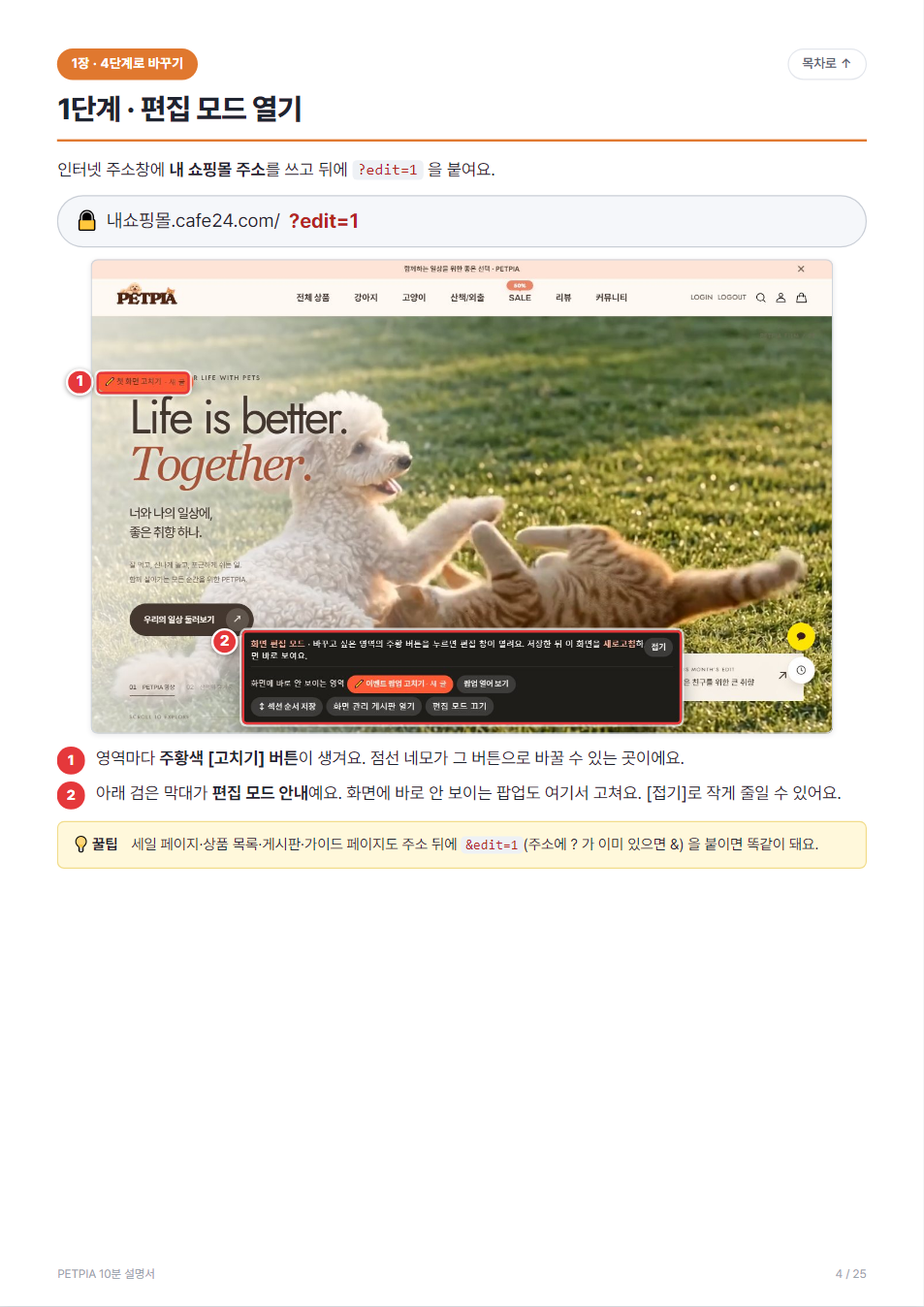
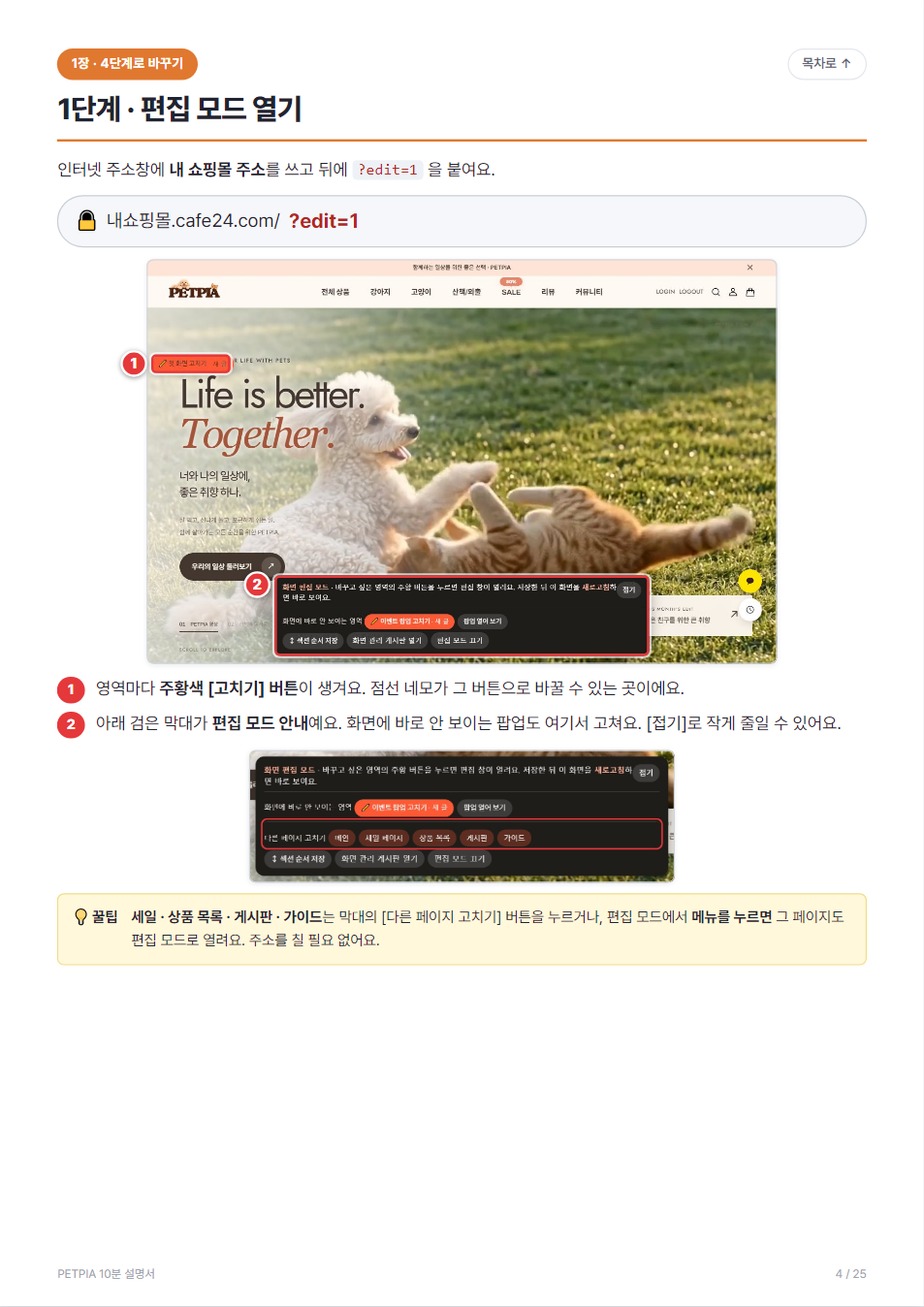
Edit mode follows site links; page shortcuts in the edit bar
- In edit mode, clicking menu/links opens the next page in edit mode too
- Edit bar gets [다른 페이지 고치기] shortcuts (main, sale, list, board, guide)
- [편집 모드 끄기] keeps the page's own query (e.g. sale category)
- Manual: sub/sale/board/guide pages explain the shortcuts

diff --git a/manual-cms/index.html b/manual-cms/index.html
@@ -192,7 +192,7 @@ figcaption { font-size: 8.4pt; color: var(--sub); margin-top: 1mm; text-align: c
   <div class="pg-body">
 <p class="lead">바꾼 내용은 카페24 게시판 <b>「뉴스/이벤트」(2번)</b>에 글로 저장돼요. 이 게시판이 켜져 있는지 딱 한 번만 확인해요.</p>
 <div class="path"><b class="path-lab">📍 가는 길</b><span class="path-step">카페24 관리자</span><i class="path-arr">›</i><span class="path-step">게시판</span><i class="path-arr">›</i><span class="path-step last">게시판 관리</span></div>
-<figure class="fig fig-center" style="max-width:calc(78mm * 2.0875);"><div class="shotwrap" style="aspect-ratio:1169/560"><div class="shot"><img src="https://cdn.jsdelivr.net/gh/tlsdmsrud902/pet@946b7ac/manual-cms/shots/adm-boards.jpg" alt="" style="width:121.899%;left:-21.899%;top:-10.714%"><i class="bx" style="left:2.224%;top:85.536%;width:97.519%;height:6.786%"></i></div><b class="mk d-l" style="left:2.224%;top:88.929%">1</b></div></figure>
+<figure class="fig fig-center" style="max-width:calc(78mm * 2.0875);"><div class="shotwrap" style="aspect-ratio:1169/560"><div class="shot"><img src="file:///D:/pet/manual-cms/shots/adm-boards.jpg" alt="" style="width:121.899%;left:-21.899%;top:-10.714%"><i class="bx" style="left:2.224%;top:85.536%;width:97.519%;height:6.786%"></i></div><b class="mk d-l" style="left:2.224%;top:88.929%">1</b></div></figure>
 <ol class="steps"><li><b class="num">1</b><div><b>뉴스/이벤트</b> 게시판(게시판 ID <b>2</b>)을 찾아 제목을 눌러요.</div></li><li><b class="num">2</b><div><b>사용여부 "사용"</b>, <b>표시여부 "표시"</b>, <b>쓰기 권한 "관리자"</b>로 되어 있는지 봐요. 아니면 바꾸고 저장해요.</div></li><li><b class="num">3</b><div>이 게시판은 <b>관리자만 글을 쓸 수 있어서</b> 손님이 화면을 바꿀 수 없어요.</div></li></ol>
 <div class="warn"><b>⚠ 조심</b><div>편집할 때는 <b>카페24 관리자에 로그인한 같은 브라우저</b>로 쇼핑몰을 열어야 저장할 수 있어요.</div></div>
 <div class="tip"><b>💡 꿀팁</b><div>뉴스/이벤트 게시판을 다른 곳에 쓰고 있다면, 관리자만 쓰는 새 게시판을 만들고 그 번호를 store-content.js 의 <code>cms.boardNo</code> 에 적어요.</div></div>
@@ -205,9 +205,10 @@ figcaption { font-size: 8.4pt; color: var(--sub); margin-top: 1mm; text-align: c
   <div class="pg-body">
 <p class="lead">인터넷 주소창에 <b>내 쇼핑몰 주소</b>를 쓰고 뒤에 <code>?edit=1</code> 을 붙여요.</p>
 <div class="addr"><span>🔒</span> 내쇼핑몰.cafe24.com/<b>?edit=1</b></div>
-<figure class="fig fig-center" style="max-width:calc(108mm * 1.5610);"><div class="shotwrap" style="aspect-ratio:1280/820"><div class="shot"><img src="https://cdn.jsdelivr.net/gh/tlsdmsrud902/pet@946b7ac/manual-cms/shots/cms-home.jpg" alt="" style="width:100.000%;left:0.000%;top:0.000%"><i class="bx" style="left:0.781%;top:23.659%;width:12.500%;height:4.634%"></i><i class="bx" style="left:20.313%;top:78.049%;width:59.375%;height:20.000%"></i></div><b class="mk d-l" style="left:0.781%;top:25.854%">1</b><b class="mk d-l" style="left:20.313%;top:80.488%">2</b></div></figure>
+<figure class="fig fig-center" style="max-width:calc(92mm * 1.5610);"><div class="shotwrap" style="aspect-ratio:1280/820"><div class="shot"><img src="file:///D:/pet/manual-cms/shots/cms-home.jpg" alt="" style="width:100.000%;left:0.000%;top:0.000%"><i class="bx" style="left:0.781%;top:23.659%;width:12.500%;height:4.634%"></i><i class="bx" style="left:20.313%;top:78.049%;width:59.375%;height:20.000%"></i></div><b class="mk d-l" style="left:0.781%;top:25.854%">1</b><b class="mk d-l" style="left:20.313%;top:80.488%">2</b></div></figure>
 <ol class="steps"><li><b class="num">1</b><div>영역마다 <b>주황색 [고치기] 버튼</b>이 생겨요. 점선 네모가 그 버튼으로 바꿀 수 있는 곳이에요.</div></li><li><b class="num">2</b><div>아래 검은 막대가 <b>편집 모드 안내</b>예요. 화면에 바로 안 보이는 팝업도 여기서 고쳐요. [접기]로 작게 줄일 수 있어요.</div></li></ol>
-<div class="tip"><b>💡 꿀팁</b><div>세일 페이지·상품 목록·게시판·가이드 페이지도 주소 뒤에 <code>&edit=1</code>(주소에 ? 가 이미 있으면 &) 을 붙이면 똑같이 돼요.</div></div>
+<figure class="fig fig-center" style="max-width:calc(30mm * 3.2219);"><div class="shotwrap" style="aspect-ratio:1176/365"><div class="shot"><img src="file:///D:/pet/manual-cms/shots/cms-bar-go.jpg" alt="" style="width:100.000%;left:0.000%;top:0.000%"></div></div></figure>
+<div class="tip"><b>💡 꿀팁</b><div><b>세일 · 상품 목록 · 게시판 · 가이드</b>는 막대의 [다른 페이지 고치기] 버튼을 누르거나, 편집 모드에서 <b>메뉴를 누르면</b> 그 페이지도 편집 모드로 열려요. 주소를 칠 필요 없어요.</div></div>
 </div>
   <footer class="pg-foot"><span>PETPIA 10분 설명서</span><span>4 / 25</span></footer>
 </section>
@@ -215,7 +216,7 @@ figcaption { font-size: 8.4pt; color: var(--sub); margin-top: 1mm; text-align: c
   <div class="pg-top"><span class="chip">1장 · 4단계로 바꾸기</span><a href="#toc" class="to-toc">목차로 ↑</a></div>
   <h2 class="pg-title">2단계 · [고치기] 누르기</h2>
   <div class="pg-body">
-<figure class="fig fig-center" style="max-width:calc(100mm * 1.3333);"><div class="shotwrap" style="aspect-ratio:1280/960"><div class="shot"><img src="https://cdn.jsdelivr.net/gh/tlsdmsrud902/pet@946b7ac/manual-cms/shots/step-edit.jpg" alt="" style="width:100.000%;left:0.000%;top:0.000%"><i class="bx" style="left:5.625%;top:17.917%;width:27.500%;height:7.292%"></i><i class="bx" style="left:74.609%;top:17.917%;width:19.688%;height:8.958%"></i></div><b class="mk d-l" style="left:5.625%;top:21.563%">1</b><b class="mk d-l" style="left:74.609%;top:22.396%">2</b></div></figure>
+<figure class="fig fig-center" style="max-width:calc(100mm * 1.3333);"><div class="shotwrap" style="aspect-ratio:1280/960"><div class="shot"><img src="file:///D:/pet/manual-cms/shots/step-edit.jpg" alt="" style="width:100.000%;left:0.000%;top:0.000%"><i class="bx" style="left:5.625%;top:17.917%;width:27.500%;height:7.292%"></i><i class="bx" style="left:74.609%;top:17.917%;width:19.688%;height:8.958%"></i></div><b class="mk d-l" style="left:5.625%;top:21.563%">1</b><b class="mk d-l" style="left:74.609%;top:22.396%">2</b></div></figure>
 <ol class="steps"><li><b class="num">1</b><div>바꾸고 싶은 곳의 <b>[○○ 고치기]</b>를 누르면 <b>새 창</b>에 편집 화면이 열려요.</div></li><li><b class="num">2</b><div><b>[순서 ↑ ↓]</b>는 메인 화면 섹션의 순서를 바꾸는 버튼이에요. (<a href="#order">섹션 순서</a>)</div></li></ol>
 <table class="tbl "><thead><tr><th>버튼 옆 글자</th><th>뜻</th></tr></thead><tbody><tr><td>· 새 글</td><td>아직 한 번도 안 바꾼 곳이에요. 지금 화면 내용이 칸에 미리 채워져서 열려요.</td></tr><tr><td>· 게시판 글 수정</td><td>전에 바꾼 적이 있어요. 저장했던 내용이 열려요.</td></tr></tbody></table>
 <div class="note">편집 화면은 <b>게시판 글쓰기 창</b> 위에 뜨는 쉬운 입력 화면이에요. 글 제목(예: <b>[메인 화면] 카테고리</b>)은 바꾸지 마세요. 제목으로 어느 영역인지 찾아요.</div>
@@ -226,7 +227,7 @@ figcaption { font-size: 8.4pt; color: var(--sub); margin-top: 1mm; text-align: c
   <div class="pg-top"><span class="chip">1장 · 4단계로 바꾸기</span><a href="#toc" class="to-toc">목차로 ↑</a></div>
   <h2 class="pg-title">3단계 · 글자 바꾸기</h2>
   <div class="pg-body">
-<figure class="fig fig-center" style="max-width:calc(96mm * 1.7778);"><div class="shotwrap" style="aspect-ratio:1280/720"><div class="shot"><img src="https://cdn.jsdelivr.net/gh/tlsdmsrud902/pet@946b7ac/manual-cms/shots/cms-editor.jpg" alt="" style="width:100.000%;left:0.000%;top:-13.889%"><i class="bx" style="left:87.031%;top:3.472%;width:7.891%;height:5.556%"></i><i class="bx" style="left:5.078%;top:71.111%;width:89.844%;height:9.444%"></i><i class="bx" style="left:5.078%;top:92.778%;width:89.844%;height:6.944%"></i></div><b class="mk d-l" style="left:87.031%;top:6.250%">1</b><b class="mk d-l" style="left:5.078%;top:75.833%">2</b><b class="mk d-l" style="left:5.078%;top:95.833%">3</b></div></figure>
+<figure class="fig fig-center" style="max-width:calc(96mm * 1.7778);"><div class="shotwrap" style="aspect-ratio:1280/720"><div class="shot"><img src="file:///D:/pet/manual-cms/shots/cms-editor.jpg" alt="" style="width:100.000%;left:0.000%;top:-13.889%"><i class="bx" style="left:87.031%;top:3.472%;width:7.891%;height:5.556%"></i><i class="bx" style="left:5.078%;top:71.111%;width:89.844%;height:9.444%"></i><i class="bx" style="left:5.078%;top:92.778%;width:89.844%;height:6.944%"></i></div><b class="mk d-l" style="left:87.031%;top:6.250%">1</b><b class="mk d-l" style="left:5.078%;top:75.833%">2</b><b class="mk d-l" style="left:5.078%;top:95.833%">3</b></div></figure>
 <ol class="steps"><li><b class="num">1</b><div><b>[저장하기]</b> — 다 고친 뒤 마지막에 눌러요. (4단계)</div></li><li><b class="num">2</b><div><b>칸</b> — 칸 이름(작은 제목, 제목…)이 화면의 그 자리예요. 지우고 새로 쓰면 돼요.</div></li><li><b class="num">3</b><div>칸 아래 회색 글씨가 <b>무엇을 쓰는 칸인지</b> 알려 줘요.</div></li></ol>
 <table class="tbl "><thead><tr><th>이렇게 쓰면</th><th>화면에서는</th></tr></thead><tbody><tr><td>칸 안에서 <b>줄 바꾸기</b>(Enter)</td><td>화면에서도 줄이 바뀌어요.</td></tr><tr><td><code>*강조*</code> 처럼 별표로 감싸기</td><td><i>기울어진 강조 글씨</i>가 돼요.</td></tr><tr><td>칸을 <b>비우기</b></td><td>그 글자가 화면에서 사라져요.</td></tr><tr><td>링크 칸에 <code>/product/list.html?cate_no=42</code></td><td>누르면 그 주소로 가요. [이 주소 열어 보기]로 확인해요.</td></tr></tbody></table>
 </div>
@@ -236,7 +237,7 @@ figcaption { font-size: 8.4pt; color: var(--sub); margin-top: 1mm; text-align: c
   <div class="pg-top"><span class="chip">1장 · 4단계로 바꾸기</span><a href="#toc" class="to-toc">목차로 ↑</a></div>
   <h2 class="pg-title">3단계 · 사진 바꾸기</h2>
   <div class="pg-body">
-<figure class="fig fig-center" style="max-width:calc(118mm * 1.3333);"><div class="shotwrap" style="aspect-ratio:1280/960"><div class="shot"><img src="https://cdn.jsdelivr.net/gh/tlsdmsrud902/pet@946b7ac/manual-cms/shots/step-type.jpg" alt="" style="width:100.000%;left:0.000%;top:0.000%"><i class="bx" style="left:10.469%;top:63.333%;width:14.688%;height:8.333%"></i><i class="bx" style="left:10.469%;top:50.000%;width:35.938%;height:11.458%"></i><i class="bx" style="left:76.563%;top:83.542%;width:12.969%;height:5.833%"></i></div><b class="mk d-r" style="left:25.156%;top:67.500%">1</b><b class="mk d-r" style="left:46.406%;top:55.729%">2</b><b class="mk d-l" style="left:76.563%;top:86.458%">3</b></div></figure>
+<figure class="fig fig-center" style="max-width:calc(118mm * 1.3333);"><div class="shotwrap" style="aspect-ratio:1280/960"><div class="shot"><img src="file:///D:/pet/manual-cms/shots/step-type.jpg" alt="" style="width:100.000%;left:0.000%;top:0.000%"><i class="bx" style="left:10.469%;top:63.333%;width:14.688%;height:8.333%"></i><i class="bx" style="left:10.469%;top:50.000%;width:35.938%;height:11.458%"></i><i class="bx" style="left:76.563%;top:83.542%;width:12.969%;height:5.833%"></i></div><b class="mk d-r" style="left:25.156%;top:67.500%">1</b><b class="mk d-r" style="left:46.406%;top:55.729%">2</b><b class="mk d-l" style="left:76.563%;top:86.458%">3</b></div></figure>
 <ol class="steps"><li><b class="num">1</b><div><b>[사진 바꾸기]</b>를 누르고 내 컴퓨터의 사진을 골라요. 카페24에 올라가고 바로 바뀌어요.</div></li><li><b class="num">2</b><div><b>권장 크기</b>와 올린 사진을 비교해 줘요. 초록 ✓ 이면 잘 맞아요.</div></li><li><b class="num">3</b><div>바꾼 칸에는 주황 줄과 <b>[되돌리기]</b>가 생겨요. 누르면 원래대로 돌아가요.</div></li></ol>
 <div class="warn"><b>⚠ 조심</b><div>빨간 글씨로 <b>"비율이 달라요"</b>가 뜨면 사진 가장자리가 잘려 보여요. 권장 크기와 같은 모양(가로·세로 비율)으로 잘라서 올려 주세요.</div></div>
 <div class="tip"><b>💡 꿀팁</b><div>사진은 <b>10MB 이하, jpg · png · webp</b>로 올려요.</div></div>
@@ -247,9 +248,9 @@ figcaption { font-size: 8.4pt; color: var(--sub); margin-top: 1mm; text-align: c
   <div class="pg-top"><span class="chip">1장 · 4단계로 바꾸기</span><a href="#toc" class="to-toc">목차로 ↑</a></div>
   <h2 class="pg-title">4단계 · 저장하고 확인하기</h2>
   <div class="pg-body">
-<figure class="fig fig-center" style="max-width:calc(96mm * 1.3333);"><div class="shotwrap" style="aspect-ratio:1280/960"><div class="shot"><img src="https://cdn.jsdelivr.net/gh/tlsdmsrud902/pet@946b7ac/manual-cms/shots/step-save.jpg" alt="" style="width:100.000%;left:0.000%;top:0.000%"><i class="bx" style="left:10.469%;top:41.458%;width:79.063%;height:8.333%"></i><i class="bx" style="left:67.188%;top:33.542%;width:14.844%;height:4.167%"></i></div><b class="mk d-l" style="left:10.469%;top:45.625%">1</b><b class="mk d-r" style="left:82.031%;top:35.625%">2</b></div></figure>
+<figure class="fig fig-center" style="max-width:calc(96mm * 1.3333);"><div class="shotwrap" style="aspect-ratio:1280/960"><div class="shot"><img src="file:///D:/pet/manual-cms/shots/step-save.jpg" alt="" style="width:100.000%;left:0.000%;top:0.000%"><i class="bx" style="left:10.469%;top:41.458%;width:79.063%;height:8.333%"></i><i class="bx" style="left:67.188%;top:33.542%;width:14.844%;height:4.167%"></i></div><b class="mk d-l" style="left:10.469%;top:45.625%">1</b><b class="mk d-r" style="left:82.031%;top:35.625%">2</b></div></figure>
 <ol class="steps"><li><b class="num">1</b><div><b>[저장하기]</b>를 눌러요. 게시판 글로 저장돼요.</div></li><li><b class="num">2</b><div><b>바뀐 곳 ○군데</b> — 몇 군데를 고쳤는지 보여 줘요.</div></li><li><b class="num">3</b><div>처음 쇼핑몰 창으로 돌아가 <b>새로고침</b>(F5)하면 바뀐 모습이 보여요.</div></li></ol>
-<div class="ba"><figure class="fig fig-center" style=""><div class="shotwrap" style="aspect-ratio:1280/330"><div class="shot"><img src="https://cdn.jsdelivr.net/gh/tlsdmsrud902/pet@946b7ac/manual-cms/shots/cms-before.jpg" alt="" style="width:100.000%;left:0.000%;top:-30.303%"></div></div><figcaption>바꾸기 전</figcaption></figure><b>→</b><figure class="fig fig-center" style=""><div class="shotwrap" style="aspect-ratio:1280/330"><div class="shot"><img src="https://cdn.jsdelivr.net/gh/tlsdmsrud902/pet@946b7ac/manual-cms/shots/cms-after.jpg" alt="" style="width:100.000%;left:0.000%;top:-30.303%"></div></div><figcaption>바꾼 뒤 — 제목 칸 하나만 고쳤어요</figcaption></figure></div>
+<div class="ba"><figure class="fig fig-center" style=""><div class="shotwrap" style="aspect-ratio:1280/330"><div class="shot"><img src="file:///D:/pet/manual-cms/shots/cms-before.jpg" alt="" style="width:100.000%;left:0.000%;top:-30.303%"></div></div><figcaption>바꾸기 전</figcaption></figure><b>→</b><figure class="fig fig-center" style=""><div class="shotwrap" style="aspect-ratio:1280/330"><div class="shot"><img src="file:///D:/pet/manual-cms/shots/cms-after.jpg" alt="" style="width:100.000%;left:0.000%;top:-30.303%"></div></div><figcaption>바꾼 뒤 — 제목 칸 하나만 고쳤어요</figcaption></figure></div>
 <div class="tip"><b>💡 꿀팁</b><div>손님 화면에는 <b>10분 안에</b> 바뀐 내용이 보여요(이미 있던 글을 고친 경우는 늦어도 30분). 편집 모드(?edit=1)에서는 언제나 바로 보여요.</div></div>
 </div>
   <footer class="pg-foot"><span>PETPIA 10분 설명서</span><span>8 / 25</span></footer>
@@ -259,7 +260,7 @@ figcaption { font-size: 8.4pt; color: var(--sub); margin-top: 1mm; text-align: c
   <h2 class="pg-title">실수했을 때 되돌리기</h2>
   <div class="pg-body">
 <p class="lead">편집 화면 위쪽 막대에 되돌리는 버튼이 모여 있어요. 마음 놓고 바꿔 보세요.</p>
-<figure class="fig fig-center" style=""><div class="shotwrap" style="aspect-ratio:1196/77"><div class="shot"><img src="https://cdn.jsdelivr.net/gh/tlsdmsrud902/pet@946b7ac/manual-cms/shots/cms-editor-bar.jpg" alt="" style="width:100.000%;left:0.000%;top:0.000%"></div></div></figure>
+<figure class="fig fig-center" style=""><div class="shotwrap" style="aspect-ratio:1196/77"><div class="shot"><img src="file:///D:/pet/manual-cms/shots/cms-editor-bar.jpg" alt="" style="width:100.000%;left:0.000%;top:0.000%"></div></div></figure>
 <table class="tbl "><thead><tr><th>버튼</th><th>하는 일</th></tr></thead><tbody><tr><td><span class="ui">↶ 실행 취소</span></td><td>방금 바꾼 것을 하나씩 되돌려요. (Ctrl+Z)</td></tr><tr><td><span class="ui">↷ 다시 실행</span></td><td>되돌린 것을 다시 해요. (Ctrl+Y)</td></tr><tr><td><span class="ui">↺ 되돌리기</span></td><td>칸마다 있어요. <b>그 칸만</b> 원래대로 돌아가요.</td></tr><tr><td><span class="ui">⟲ 처음 상태로</span></td><td>이 창을 처음 열었을 때로 모두 돌아가요.</td></tr><tr><td><span class="ui">🕘 이전 저장본 불러오기</span></td><td>이 컴퓨터에서 저장했던 <b>최근 5개</b> 중 하나를 불러와요.</td></tr><tr><td><span class="ui">고급: 원래 편집기</span></td><td>카페24 원래 글쓰기 화면을 보여 줘요. 보통은 쓸 일이 없어요.</td></tr></tbody></table>
 <div class="tip"><b>💡 꿀팁</b><div>저장한 뒤에도 괜찮아요. 다시 [고치기] → [이전 저장본 불러오기] → [저장하기] 하면 예전 모습으로 돌아가요.</div></div>
 </div>
@@ -280,7 +281,7 @@ figcaption { font-size: 8.4pt; color: var(--sub); margin-top: 1mm; text-align: c
   <h2 class="pg-title">칸 늘리기 · 줄이기 · 옮기기</h2>
   <div class="pg-body">
 <p class="lead">카테고리·이용 안내·질문처럼 <b>같은 모양 칸이 여러 개</b>인 영역은 칸 수를 바꿀 수 있어요.</p>
-<figure class="fig fig-center" style="max-width:calc(84mm * 1.8717);"><div class="shotwrap" style="aspect-ratio:1196/639"><div class="shot"><img src="https://cdn.jsdelivr.net/gh/tlsdmsrud902/pet@946b7ac/manual-cms/shots/cms-editor-card.jpg" alt="" style="width:100.000%;left:0.000%;top:0.000%"><i class="bx" style="left:79.097%;top:2.817%;width:6.522%;height:5.947%"></i><i class="bx" style="left:85.284%;top:2.817%;width:8.361%;height:5.947%"></i><i class="bx" style="left:94.147%;top:2.817%;width:4.013%;height:5.947%"></i></div><b class="mk d-l" style="left:79.097%;top:5.634%">1</b><b class="mk d-t" style="left:89.465%;top:2.817%">2</b><b class="mk d-r" style="left:98.161%;top:5.634%">3</b></div></figure>
+<figure class="fig fig-center" style="max-width:calc(84mm * 1.8717);"><div class="shotwrap" style="aspect-ratio:1196/639"><div class="shot"><img src="file:///D:/pet/manual-cms/shots/cms-editor-card.jpg" alt="" style="width:100.000%;left:0.000%;top:0.000%"><i class="bx" style="left:79.097%;top:2.817%;width:6.522%;height:5.947%"></i><i class="bx" style="left:85.284%;top:2.817%;width:8.361%;height:5.947%"></i><i class="bx" style="left:94.147%;top:2.817%;width:4.013%;height:5.947%"></i></div><b class="mk d-l" style="left:79.097%;top:5.634%">1</b><b class="mk d-t" style="left:89.465%;top:2.817%">2</b><b class="mk d-r" style="left:98.161%;top:5.634%">3</b></div></figure>
 <ol class="steps"><li><b class="num">1</b><div><b>↑ ↓</b> — 이 칸을 앞·뒤로 옮겨요.</div></li><li><b class="num">2</b><div><b>[복사해서 추가]</b> — 이 칸을 하나 더 만들어 바로 뒤에 붙여요. 새 칸의 사진·글자를 바꿔요.</div></li><li><b class="num">3</b><div><b>[삭제]</b> — 이 칸을 지워요. 실수했으면 [실행 취소]로 살려요.</div></li></ol>
 <div class="note">사이즈 가이드(1·2·3번)나 첫 화면(3장면)처럼 <b>칸 수가 정해진 영역</b>에는 이 버튼이 없어요. 사진과 글자만 바꿔요.</div>
 </div>
@@ -291,7 +292,7 @@ figcaption { font-size: 8.4pt; color: var(--sub); margin-top: 1mm; text-align: c
   <h2 class="pg-title">사진 속 상품 점 찍기 (장면 속 상품)</h2>
   <div class="pg-body">
 <p class="lead">장면 사진 위 <b>+ 점</b>을 누르면 그 상품이 열려요. 점 자리와 상품을 그림으로 정해요.</p>
-<figure class="fig fig-center" style="max-width:calc(112mm * 1.3553);"><div class="shotwrap" style="aspect-ratio:1194/881"><div class="shot"><img src="https://cdn.jsdelivr.net/gh/tlsdmsrud902/pet@946b7ac/manual-cms/shots/cms-editor-spots.jpg" alt="" style="width:100.000%;left:0.000%;top:0.000%"><i class="bx" style="left:5.360%;top:81.839%;width:12.563%;height:4.540%"></i><i class="bx" style="left:93.886%;top:82.066%;width:4.271%;height:4.086%"></i></div><b class="mk d-r" style="left:55.193%;top:47.333%">1</b><b class="mk d-r" style="left:42.881%;top:31.215%">2</b><b class="mk d-l" style="left:5.360%;top:84.109%">3</b><b class="mk d-r" style="left:98.157%;top:84.109%">4</b></div></figure>
+<figure class="fig fig-center" style="max-width:calc(112mm * 1.3553);"><div class="shotwrap" style="aspect-ratio:1194/881"><div class="shot"><img src="file:///D:/pet/manual-cms/shots/cms-editor-spots.jpg" alt="" style="width:100.000%;left:0.000%;top:0.000%"><i class="bx" style="left:5.360%;top:81.839%;width:12.563%;height:4.540%"></i><i class="bx" style="left:93.886%;top:82.066%;width:4.271%;height:4.086%"></i></div><b class="mk d-r" style="left:55.193%;top:47.333%">1</b><b class="mk d-r" style="left:42.881%;top:31.215%">2</b><b class="mk d-l" style="left:5.360%;top:84.109%">3</b><b class="mk d-r" style="left:98.157%;top:84.109%">4</b></div></figure>
 <ol class="steps"><li><b class="num">1</b><div>사진에서 <b>상품이 있는 자리를 누르면</b> 번호 점이 생겨요.</div></li><li><b class="num">2</b><div>점은 <b>끌어서</b> 옮겨요. (휴대폰은 손가락으로)</div></li><li><b class="num">3</b><div>아래 같은 번호 칸에 <b>상품번호</b>를 적으면 <b>✓ 상품 이름</b>이 떠요. 없는 번호면 빨갛게 알려 줘요.</div></li><li><b class="num">4</b><div><b>[삭제]</b>로 점을 지워요.</div></li></ol>
 <div class="tip"><b>💡 꿀팁</b><div>상품번호는 관리자 › 상품 목록의 <b>상품번호</b>나, 상품 주소의 <code>product_no=29</code> 숫자예요. 이름·가격·사진은 쇼핑몰 상품에서 자동으로 가져와요.</div></div>
 </div>
@@ -301,9 +302,9 @@ figcaption { font-size: 8.4pt; color: var(--sub); margin-top: 1mm; text-align: c
   <div class="pg-top"><span class="chip">2장 · 메인 화면</span><a href="#toc" class="to-toc">목차로 ↑</a></div>
   <h2 class="pg-title">영역 숨기기 · 다시 보이기</h2>
   <div class="pg-body">
-<figure class="fig fig-center" style="max-width:calc(92mm * 1.3333);"><div class="shotwrap" style="aspect-ratio:1280/960"><div class="shot"><img src="https://cdn.jsdelivr.net/gh/tlsdmsrud902/pet@946b7ac/manual-cms/shots/feat-hidden.jpg" alt="" style="width:100.000%;left:0.000%;top:0.000%"><i class="bx" style="left:66.406%;top:33.854%;width:32.422%;height:7.500%"></i></div><b class="mk d-l" style="left:66.406%;top:37.604%">3</b></div></figure>
+<figure class="fig fig-center" style="max-width:calc(92mm * 1.3333);"><div class="shotwrap" style="aspect-ratio:1280/960"><div class="shot"><img src="file:///D:/pet/manual-cms/shots/feat-hidden.jpg" alt="" style="width:100.000%;left:0.000%;top:0.000%"><i class="bx" style="left:66.406%;top:33.854%;width:32.422%;height:7.500%"></i></div><b class="mk d-l" style="left:66.406%;top:37.604%">3</b></div></figure>
 <ol class="steps"><li><b class="num">1</b><div>편집 화면 맨 위 <b>보이기</b> 칸에서 <b>[숨기기]</b>를 누르고 저장해요.</div></li><li><b class="num">2</b><div>손님 화면에서는 그 영역이 <b>사라져요.</b></div></li><li><b class="num">3</b><div>편집 모드에서는 <b>흐린 줄무늬</b>와 <b>"숨김 · 방문자에게 안 보여요"</b> 표시로 보여요.</div></li><li><b class="num">4</b><div>다시 보이려면 [고치기] → <b>[보이기]</b> → [저장하기].</div></li></ol>
-<figure class="fig fig-center" style="max-width:calc(30mm * 5.3846);"><div class="shotwrap" style="aspect-ratio:700/130"><div class="shot"><img src="https://cdn.jsdelivr.net/gh/tlsdmsrud902/pet@946b7ac/manual-cms/shots/cms-editor.jpg" alt="" style="width:182.857%;left:-6.857%;top:-338.462%"><i class="bx" style="left:2.429%;top:33.846%;width:22.286%;height:32.308%"></i></div><b class="mk d-r" style="left:24.714%;top:50.000%">1</b></div></figure>
+<figure class="fig fig-center" style="max-width:calc(30mm * 5.3846);"><div class="shotwrap" style="aspect-ratio:700/130"><div class="shot"><img src="file:///D:/pet/manual-cms/shots/cms-editor.jpg" alt="" style="width:182.857%;left:-6.857%;top:-338.462%"><i class="bx" style="left:2.429%;top:33.846%;width:22.286%;height:32.308%"></i></div><b class="mk d-r" style="left:24.714%;top:50.000%">1</b></div></figure>
 <div class="tip"><b>💡 꿀팁</b><div>계절이 지난 기획전이나 잠깐 쉬는 이벤트는 지우지 말고 <b>숨겨 두세요.</b> 나중에 [보이기]만 누르면 돼요.</div></div>
 </div>
   <footer class="pg-foot"><span>PETPIA 10분 설명서</span><span>13 / 25</span></footer>
@@ -313,7 +314,7 @@ figcaption { font-size: 8.4pt; color: var(--sub); margin-top: 1mm; text-align: c
   <h2 class="pg-title">섹션 순서 바꾸기</h2>
   <div class="pg-body">
 <p class="lead">메인 화면 섹션을 위·아래로 옮기고, <b>[순서 저장하기] 한 번</b>이면 끝이에요.</p>
-<figure class="fig fig-center" style="max-width:calc(104mm * 1.7188);"><div class="shotwrap" style="aspect-ratio:1100/640"><div class="shot"><img src="https://cdn.jsdelivr.net/gh/tlsdmsrud902/pet@946b7ac/manual-cms/shots/feat-order-save.jpg" alt="" style="width:100.000%;left:0.000%;top:0.000%"><i class="bx" style="left:78.364%;top:31.094%;width:16.727%;height:6.875%"></i></div><b class="mk d-b" style="left:82.727%;top:34.531%">1</b><b class="mk d-r" style="left:65.455%;top:22.031%">2</b></div></figure>
+<figure class="fig fig-center" style="max-width:calc(104mm * 1.7188);"><div class="shotwrap" style="aspect-ratio:1100/640"><div class="shot"><img src="file:///D:/pet/manual-cms/shots/feat-order-save.jpg" alt="" style="width:100.000%;left:0.000%;top:0.000%"><i class="bx" style="left:78.364%;top:31.094%;width:16.727%;height:6.875%"></i></div><b class="mk d-b" style="left:82.727%;top:34.531%">1</b><b class="mk d-r" style="left:65.455%;top:22.031%">2</b></div></figure>
 <ol class="steps"><li><b class="num">1</b><div>옮기고 싶은 섹션 오른쪽 위 <b>[순서 ↑ ↓]</b>를 눌러요. 화면에서 바로 위·아래로 움직여요. 여러 번 눌러도 돼요.</div></li><li><b class="num">2</b><div>옮기면 화면 위에 <b>[순서 저장하기]</b>가 떠요. 다 옮긴 뒤 한 번 누르면 새 창이 열리고 <b>저절로 저장</b>돼요.</div></li><li><b class="num">3</b><div>저장이 끝나면 메인 화면을 <b>새로고침</b>해서 확인해요.</div></li></ol>
 <div class="tip"><b>💡 꿀팁</b><div>섹션 옆 [순서] 막대의 <b>[저장]</b> 버튼이나, 아래 검은 막대의 [↕ 순서 저장하기]를 눌러도 똑같아요.</div></div>
 <div class="note">첫 화면(맨 위 영상)과 이벤트 팝업은 자리가 정해져 있어 옮기지 않아요.</div>
@@ -325,7 +326,7 @@ figcaption { font-size: 8.4pt; color: var(--sub); margin-top: 1mm; text-align: c
   <h2 class="pg-title">첫 화면(맨 위 큰 화면) 바꾸기</h2>
   <div class="pg-body">
 <p class="lead">스크롤하면 <b>1번 → 2번 → 3번 장면</b>이 차례로 나오는 큰 화면이에요.</p>
-<figure class="fig fig-center" style="max-width:calc(66mm * 2.3000);"><div class="shotwrap" style="aspect-ratio:1196/520"><div class="shot"><img src="https://cdn.jsdelivr.net/gh/tlsdmsrud902/pet@946b7ac/manual-cms/shots/cms-editor-first.jpg" alt="" style="width:100.000%;left:0.000%;top:0.000%"></div></div></figure>
+<figure class="fig fig-center" style="max-width:calc(66mm * 2.3000);"><div class="shotwrap" style="aspect-ratio:1196/520"><div class="shot"><img src="file:///D:/pet/manual-cms/shots/cms-editor-first.jpg" alt="" style="width:100.000%;left:0.000%;top:0.000%"></div></div></figure>
 <table class="tbl "><thead><tr><th>칸</th><th>뜻</th></tr></thead><tbody><tr><td>사진 위 작은 글 · 오른쪽 아래 작은 글 · 제목 · 링크</td><td>영역 전체에 한 번씩 나오는 글자예요.</td></tr><tr><td>1번 · 2번 · 3번</td><td>장면마다 사진, 큰 영문 글, 제목, 설명, 버튼, 아래 메뉴 이름</td></tr><tr><td>1번 <b>사진 · 영상 주소</b></td><td>[사진 바꾸기]로 사진을 올리면 영상 대신 사진이 나와요(영상 주소는 알아서 비워져요). 다른 영상을 쓰려면 영상 주소에 mp4 주소를 적어요.</td></tr></tbody></table>
 <div class="tip"><b>💡 꿀팁</b><div>큰 화면 사진은 <b>가로로 긴 사진</b>(권장 크기는 편집 화면에 나와요)이 잘 어울려요. 사람·동물 얼굴이 가운데쯤 오게 골라 주세요.</div></div>
 </div>
@@ -336,8 +337,8 @@ figcaption { font-size: 8.4pt; color: var(--sub); margin-top: 1mm; text-align: c
   <h2 class="pg-title">메인 이벤트 팝업 바꾸기</h2>
   <div class="pg-body">
 <p class="lead">메인에 들어오면 뜨는 팝업이에요. 팝업 안의 <b>[이 팝업 고치기]</b>(또는 아래 검은 막대의 [이벤트 팝업 고치기])를 누르면 오른쪽 창이 열려요. <b>같은 번호끼리 짝</b>이에요.</p>
-<div class="two" style="grid-template-columns:68mm 1fr"><div><figure class="fig fig-center" style=""><div class="shotwrap" style="aspect-ratio:800/1264"><div class="shot"><img src="https://cdn.jsdelivr.net/gh/tlsdmsrud902/pet@946b7ac/manual-cms/shots/walk-popup-page.jpg" alt="" style="width:100.000%;left:0.000%;top:0.000%"></div></div><figcaption>메인 화면의 팝업</figcaption></figure>
-<ol class="steps"><li><b class="num">1</b><div><b>사진</b> → [사진 바꾸기]로 내 사진 고르기</div></li><li><b class="num">2</b><div><b>제목</b> 칸 → 지우고 새로 쓰기</div></li><li><b class="num">3</b><div><b>버튼</b> 칸 → 버튼에 보이는 글자</div></li><li><b class="num">4</b><div><b>링크</b> 칸 → 버튼을 누르면 갈 주소</div></li><li><b class="num">5</b><div><b>마감 시각</b> → <code>2026-10-31 23:59</code> 처럼 쓰면 남은 시간 타이머가 붙어요</div></li></ol></div><div><figure class="fig fig-center" style="max-width:calc(196mm * 0.5124);"><div class="shotwrap" style="aspect-ratio:1014/1979"><div class="shot"><img src="https://cdn.jsdelivr.net/gh/tlsdmsrud902/pet@946b7ac/manual-cms/shots/walk-popup-edit.jpg" alt="" style="width:100.000%;left:0.000%;top:-26.276%"></div></div><figcaption>[이 팝업 고치기]를 누르면 열리는 창</figcaption></figure></div></div>
+<div class="two" style="grid-template-columns:68mm 1fr"><div><figure class="fig fig-center" style=""><div class="shotwrap" style="aspect-ratio:800/1264"><div class="shot"><img src="file:///D:/pet/manual-cms/shots/walk-popup-page.jpg" alt="" style="width:100.000%;left:0.000%;top:0.000%"></div></div><figcaption>메인 화면의 팝업</figcaption></figure>
+<ol class="steps"><li><b class="num">1</b><div><b>사진</b> → [사진 바꾸기]로 내 사진 고르기</div></li><li><b class="num">2</b><div><b>제목</b> 칸 → 지우고 새로 쓰기</div></li><li><b class="num">3</b><div><b>버튼</b> 칸 → 버튼에 보이는 글자</div></li><li><b class="num">4</b><div><b>링크</b> 칸 → 버튼을 누르면 갈 주소</div></li><li><b class="num">5</b><div><b>마감 시각</b> → <code>2026-10-31 23:59</code> 처럼 쓰면 남은 시간 타이머가 붙어요</div></li></ol></div><div><figure class="fig fig-center" style="max-width:calc(196mm * 0.5124);"><div class="shotwrap" style="aspect-ratio:1014/1979"><div class="shot"><img src="file:///D:/pet/manual-cms/shots/walk-popup-edit.jpg" alt="" style="width:100.000%;left:0.000%;top:-26.276%"></div></div><figcaption>[이 팝업 고치기]를 누르면 열리는 창</figcaption></figure></div></div>
 <div class="tip"><b>💡 꿀팁</b><div>팝업은 여러 장이 넘어가요. 장을 늘리려면 마지막 장의 <b>[복사해서 추가]</b>, 끄려면 맨 위 <b>[숨기기]</b>. 손님이 [오늘 하루 닫기]를 누르면 그날은 다시 안 떠요.</div></div>
 </div>
   <footer class="pg-foot"><span>PETPIA 10분 설명서</span><span>16 / 25</span></footer>
@@ -347,9 +348,9 @@ figcaption { font-size: 8.4pt; color: var(--sub); margin-top: 1mm; text-align: c
   <h2 class="pg-title">오른쪽 카카오톡 · 인스타그램 버튼 연결</h2>
   <div class="pg-body">
 <p class="lead">화면 오른쪽에 떠 있는 <b>카카오톡 버튼</b>을 우리 가게 카카오톡 채널로 연결해요. 이건 편집 모드가 아니라 <b>파일 한 줄</b>만 고치면 돼요.</p>
-<div class="two" style="grid-template-columns:52mm 1fr"><div><figure class="fig fig-center" style=""><div class="shotwrap" style="aspect-ratio:220/240"><div class="shot"><img src="https://cdn.jsdelivr.net/gh/tlsdmsrud902/pet@946b7ac/manual-cms/shots/story-1.jpg" alt="" style="width:500.000%;left:-400.000%;top:-183.333%"><i class="bx" style="left:65.455%;top:19.167%;width:23.636%;height:21.667%"></i></div><b class="mk d-l" style="left:65.455%;top:30.000%">1</b></div><figcaption>① 카카오톡 버튼</figcaption></figure></div><div>
+<div class="two" style="grid-template-columns:52mm 1fr"><div><figure class="fig fig-center" style=""><div class="shotwrap" style="aspect-ratio:220/240"><div class="shot"><img src="file:///D:/pet/manual-cms/shots/story-1.jpg" alt="" style="width:500.000%;left:-400.000%;top:-183.333%"><i class="bx" style="left:65.455%;top:19.167%;width:23.636%;height:21.667%"></i></div><b class="mk d-l" style="left:65.455%;top:30.000%">1</b></div><figcaption>① 카카오톡 버튼</figcaption></figure></div><div>
 <ol class="steps"><li><b class="num">1</b><div><b>카카오톡 채널 주소</b>를 준비해요. 카카오톡 채널 관리자센터 › 채널 › <b>채널 URL</b> (예: <code>https://pf.kakao.com/_abcd</code>)</div></li><li><b class="num">2</b><div>카페24 관리자 › 디자인 › <b>[디자인 편집]</b> › 왼쪽 아래 화면명 검색에 <code>store-content</code> 를 쓰고 파일을 열어요.</div></li></ol></div></div>
-<figure class="fig fig-center" style="max-width:calc(84mm * 2.0571);"><div class="shotwrap" style="aspect-ratio:1440/700"><div class="shot"><img src="https://cdn.jsdelivr.net/gh/tlsdmsrud902/pet@946b7ac/manual-cms/shots/sde-store-content.jpg" alt="" style="width:100.000%;left:0.000%;top:0.000%"><i class="bx" style="left:0.417%;top:95.714%;width:13.889%;height:4.000%"></i><i class="bx" style="left:16.111%;top:6.000%;width:3.194%;height:3.714%"></i></div><b class="mk d-r" style="left:14.306%;top:97.714%">2</b><b class="mk d-r" style="left:19.306%;top:7.857%">4</b></div></figure>
+<figure class="fig fig-center" style="max-width:calc(84mm * 2.0571);"><div class="shotwrap" style="aspect-ratio:1440/700"><div class="shot"><img src="file:///D:/pet/manual-cms/shots/sde-store-content.jpg" alt="" style="width:100.000%;left:0.000%;top:0.000%"><i class="bx" style="left:0.417%;top:95.714%;width:13.889%;height:4.000%"></i><i class="bx" style="left:16.111%;top:6.000%;width:3.194%;height:3.714%"></i></div><b class="mk d-r" style="left:14.306%;top:97.714%">2</b><b class="mk d-r" style="left:19.306%;top:7.857%">4</b></div></figure>
 <ol class="steps"><li><b class="num">3</b><div><b>Ctrl + F</b> 를 누르고 <code>kakao</code> 를 찾아요. <code>kakao: &#39;&#39;</code> 라는 줄이 나와요.</div></li><li><b class="num">4</b><div>따옴표 사이에 주소를 붙여 넣고 왼쪽 위 <b>[저장]</b>을 눌러요.</div></li></ol>
 <div class="swap"><div class="sw-col"><span class="sw-lab">찾을 내용</span><code>kakao: &#39;&#39;</code></div><span class="sw-arrow">→</span><div class="sw-col"><span class="sw-lab">바꿀 내용</span><code>kakao: &#39;https://pf.kakao.com/_abcd&#39;</code></div></div>
 <div class="tip"><b>💡 꿀팁</b><div><b>인스타그램 버튼</b>도 같은 파일에서 <code>instagram: &#39;&#39;</code> 줄에 내 인스타그램 주소(예: <code>https://www.instagram.com/내계정</code>)를 넣으면 나타나요. 주소가 비어 있으면 인스타그램 버튼은 숨겨져요.</div></div>
@@ -360,8 +361,8 @@ figcaption { font-size: 8.4pt; color: var(--sub); margin-top: 1mm; text-align: c
   <div class="pg-top"><span class="chip">3장 · 세일 페이지</span><a href="#toc" class="to-toc">목차로 ↑</a></div>
   <h2 class="pg-title">세일 페이지 고치기</h2>
   <div class="pg-body">
-<p class="lead">메뉴의 <b>SALE</b> 페이지 주소 뒤에 <code>&edit=1</code> 을 붙여요. 예) <code>/product/list.html?cate_no=27&edit=1</code></p>
-<figure class="fig fig-center" style="max-width:calc(96mm * 1.5610);"><div class="shotwrap" style="aspect-ratio:1280/820"><div class="shot"><img src="https://cdn.jsdelivr.net/gh/tlsdmsrud902/pet@946b7ac/manual-cms/shots/cms-sale.jpg" alt="" style="width:100.000%;left:0.000%;top:0.000%"><i class="bx" style="left:0.781%;top:13.171%;width:15.078%;height:4.146%"></i><i class="bx" style="left:0.781%;top:23.659%;width:15.391%;height:4.146%"></i><i class="bx" style="left:20.313%;top:85.366%;width:59.375%;height:7.317%"></i></div><b class="mk d-r" style="left:15.859%;top:15.244%">1</b><b class="mk d-r" style="left:16.172%;top:25.732%">2</b><b class="mk d-l" style="left:20.313%;top:89.024%">3</b></div></figure>
+<p class="lead">메인 편집 모드에서 <b>메뉴의 SALE</b>을 누르거나 아래 막대의 <b>[세일 페이지]</b>를 누르면, 세일 페이지가 편집 모드로 열려요.</p>
+<figure class="fig fig-center" style="max-width:calc(96mm * 1.5610);"><div class="shotwrap" style="aspect-ratio:1280/820"><div class="shot"><img src="file:///D:/pet/manual-cms/shots/cms-sale.jpg" alt="" style="width:100.000%;left:0.000%;top:0.000%"><i class="bx" style="left:0.781%;top:13.171%;width:15.078%;height:4.146%"></i><i class="bx" style="left:0.781%;top:23.659%;width:15.391%;height:4.146%"></i><i class="bx" style="left:20.313%;top:85.366%;width:59.375%;height:7.317%"></i></div><b class="mk d-r" style="left:15.859%;top:15.244%">1</b><b class="mk d-r" style="left:16.172%;top:25.732%">2</b><b class="mk d-l" style="left:20.313%;top:89.024%">3</b></div></figure>
 <ol class="steps"><li><b class="num">1</b><div><b>세일 타이머</b> — 마감 시각과 문구, 색</div></li><li><b class="num">2</b><div><b>세일 큰 화면</b> — 큰 사진, 제목, 할인 문구</div></li><li><b class="num">3</b><div>세일 <b>상품</b>과 <b>쿠폰 번호·수량</b>은 관리자에서 바꿔요. (막대의 💡 안내)</div></li></ol>
 <table class="tbl tbl-small"><thead><tr><th>아래로 내리면 나오는 영역</th><th>바꿀 수 있는 것</th></tr></thead><tbody><tr><td>세일 정보 띠</td><td>흘러가는 띠 글자</td></tr><tr><td>세일 카테고리 3칸</td><td>3칸 사진, 이름, 링크</td></tr><tr><td>세일 쿠폰 뽑기</td><td>제목, 리본·말풍선 문구, 유의사항</td></tr><tr><td>세일 상품 제목</td><td>상품 목록 위 제목</td></tr><tr><td>세일 구매 안내</td><td>안내 카드 제목과 글</td></tr></tbody></table>
 </div>
@@ -384,8 +385,8 @@ figcaption { font-size: 8.4pt; color: var(--sub); margin-top: 1mm; text-align: c
   <div class="pg-top"><span class="chip">4장 · 목록 · 게시판 · 가이드</span><a href="#toc" class="to-toc">목차로 ↑</a></div>
   <h2 class="pg-title">상품 목록 위 큰 배너</h2>
   <div class="pg-body">
-<p class="lead">전체상품 · 강아지 · 고양이 · 산책 목록과 검색, 게시판 맨 위의 큰 배너예요. <b>배너 8개를 한 글</b>에서 바꿔요.</p>
-<figure class="fig fig-center" style="max-width:calc(92mm * 1.5610);"><div class="shotwrap" style="aspect-ratio:1280/820"><div class="shot"><img src="https://cdn.jsdelivr.net/gh/tlsdmsrud902/pet@946b7ac/manual-cms/shots/cms-list.jpg" alt="" style="width:100.000%;left:0.000%;top:0.000%"><i class="bx" style="left:4.531%;top:16.220%;width:17.422%;height:4.146%"></i></div><b class="mk d-r" style="left:21.953%;top:18.293%">1</b></div></figure>
+<p class="lead">전체상품 · 강아지 · 고양이 · 산책 목록과 검색, 게시판 맨 위의 큰 배너예요. <b>배너 8개를 한 글</b>에서 바꿔요. 막대의 <b>[상품 목록]</b>이나 편집 모드에서 메뉴(강아지 · 고양이 …)를 누르면 돼요.</p>
+<figure class="fig fig-center" style="max-width:calc(92mm * 1.5610);"><div class="shotwrap" style="aspect-ratio:1280/820"><div class="shot"><img src="file:///D:/pet/manual-cms/shots/cms-list.jpg" alt="" style="width:100.000%;left:0.000%;top:0.000%"><i class="bx" style="left:4.531%;top:16.220%;width:17.422%;height:4.146%"></i></div><b class="mk d-r" style="left:21.953%;top:18.293%">1</b></div></figure>
 <table class="tbl tbl-small"><thead><tr><th>편집 화면 번호</th><th>나오는 곳</th></tr></thead><tbody><tr><td>1번 전체상품 · 2번 강아지 · 3번 고양이 · 4번 산책·외출</td><td>그 분류 상품 목록과 검색 결과</td></tr><tr><td>5번 리뷰 · 6번 공지사항 · 7번 자주묻는질문 · 8번 상품문의</td><td>그 게시판 목록</td></tr></tbody></table>
 <div class="tip"><b>💡 꿀팁</b><div>아무 목록에서나 [목록 위 큰 배너 고치기]를 눌러도 8개가 모두 열려요. 바꾸고 싶은 번호만 고치고 저장해요. 사진은 <b>가로 1600 × 세로 900</b>이 잘 맞아요.</div></div>
 </div>
@@ -395,7 +396,8 @@ figcaption { font-size: 8.4pt; color: var(--sub); margin-top: 1mm; text-align: c
   <div class="pg-top"><span class="chip">4장 · 목록 · 게시판 · 가이드</span><a href="#toc" class="to-toc">목차로 ↑</a></div>
   <h2 class="pg-title">게시판 페이지 (리뷰 · 공지 · 질문 · 문의)</h2>
   <div class="pg-body">
-<figure class="fig fig-center" style="max-width:calc(96mm * 1.5610);"><div class="shotwrap" style="aspect-ratio:1280/820"><div class="shot"><img src="https://cdn.jsdelivr.net/gh/tlsdmsrud902/pet@946b7ac/manual-cms/shots/cms-board.jpg" alt="" style="width:100.000%;left:0.000%;top:0.000%"><i class="bx" style="left:4.531%;top:16.220%;width:17.422%;height:4.146%"></i><i class="bx" style="left:20.313%;top:85.976%;width:59.375%;height:6.098%"></i></div><b class="mk d-r" style="left:21.953%;top:18.293%">1</b><b class="mk d-l" style="left:20.313%;top:89.024%">2</b></div></figure>
+<p class="lead">막대의 <b>[게시판]</b>이나 편집 모드에서 메뉴의 리뷰 · 커뮤니티를 누르면 게시판도 편집 모드로 열려요.</p>
+<figure class="fig fig-center" style="max-width:calc(96mm * 1.5610);"><div class="shotwrap" style="aspect-ratio:1280/820"><div class="shot"><img src="file:///D:/pet/manual-cms/shots/cms-board.jpg" alt="" style="width:100.000%;left:0.000%;top:0.000%"><i class="bx" style="left:4.531%;top:16.220%;width:17.422%;height:4.146%"></i><i class="bx" style="left:20.313%;top:85.976%;width:59.375%;height:6.098%"></i></div><b class="mk d-r" style="left:21.953%;top:18.293%">1</b><b class="mk d-l" style="left:20.313%;top:89.024%">2</b></div></figure>
 <ol class="steps"><li><b class="num">1</b><div>맨 위 배너는 <b>[목록 위 큰 배너 고치기]</b>로 바꿔요. (<a href="#banner">큰 배너</a>)</div></li><li><b class="num">2</b><div>게시판마다 달라지는 것은 막대의 💡 안내를 따라요.</div></li></ol>
 <table class="tbl tbl-small"><thead><tr><th>바꾸고 싶은 것</th><th>바꾸는 곳</th></tr></thead><tbody><tr><td>게시판 위 이동 탭 (공지사항 · 자주묻는질문 · 상품문의)</td><td>store-content.js 의 <code>community.items</code> — 이름과 주소, 순서</td></tr><tr><td>게시판 글 (공지, 자주 묻는 질문의 답 등)</td><td>카페24 관리자 › 게시판 › <b>게시물 관리</b></td></tr><tr><td>리뷰</td><td>손님이 쓴 사용후기가 자동으로 나와요.</td></tr></tbody></table>
 </div>
@@ -405,8 +407,8 @@ figcaption { font-size: 8.4pt; color: var(--sub); margin-top: 1mm; text-align: c
   <div class="pg-top"><span class="chip">4장 · 목록 · 게시판 · 가이드</span><a href="#toc" class="to-toc">목차로 ↑</a></div>
   <h2 class="pg-title">가이드 페이지</h2>
   <div class="pg-body">
-<p class="lead">메뉴 · 메인의 "함께 지내는 법"에서 들어가는 <b>반려생활 가이드</b> 페이지예요. 주소: <code>/pet/guide.html?edit=1</code></p>
-<figure class="fig fig-center" style="max-width:calc(100mm * 1.5610);"><div class="shotwrap" style="aspect-ratio:1280/820"><div class="shot"><img src="https://cdn.jsdelivr.net/gh/tlsdmsrud902/pet@946b7ac/manual-cms/shots/cms-guide.jpg" alt="" style="width:100.000%;left:0.000%;top:0.000%"><i class="bx" style="left:4.531%;top:13.171%;width:17.031%;height:4.146%"></i></div><b class="mk d-r" style="left:21.563%;top:15.244%">1</b></div></figure>
+<p class="lead">메뉴 · 메인의 "함께 지내는 법"에서 들어가는 <b>반려생활 가이드</b> 페이지예요. 편집 모드에서 아래 막대의 <b>[가이드]</b>를 누르면 편집 모드로 열려요.</p>
+<figure class="fig fig-center" style="max-width:calc(100mm * 1.5610);"><div class="shotwrap" style="aspect-ratio:1280/820"><div class="shot"><img src="file:///D:/pet/manual-cms/shots/cms-guide.jpg" alt="" style="width:100.000%;left:0.000%;top:0.000%"><i class="bx" style="left:4.531%;top:13.171%;width:17.031%;height:4.146%"></i></div><b class="mk d-r" style="left:21.563%;top:15.244%">1</b></div></figure>
 <table class="tbl "><thead><tr><th>영역</th><th>바꿀 수 있는 것</th></tr></thead><tbody><tr><td>가이드 머리글</td><td>큰 제목, 설명, 목차(한 줄에 「이름 #위치」)</td></tr><tr><td>가이드 본문</td><td>1번~4번 글: 번호 글, 제목, 안내 목록(한 줄에 하나), 맨 아래 안내</td></tr></tbody></table>
 </div>
   <footer class="pg-foot"><span>PETPIA 10분 설명서</span><span>22 / 25</span></footer>
@@ -415,7 +417,7 @@ figcaption { font-size: 8.4pt; color: var(--sub); margin-top: 1mm; text-align: c
   <div class="pg-top"><span class="chip">5장 · 도움말</span><a href="#toc" class="to-toc">목차로 ↑</a></div>
   <h2 class="pg-title">휴대폰으로도 고칠 수 있어요</h2>
   <div class="pg-body">
-<div class="two" style="grid-template-columns:72mm 1fr"><div><figure class="fig fig-center" style=""><div class="shotwrap" style="aspect-ratio:780/1300"><div class="shot"><img src="https://cdn.jsdelivr.net/gh/tlsdmsrud902/pet@946b7ac/manual-cms/shots/cms-mobile.jpg" alt="" style="width:100.000%;left:0.000%;top:0.000%"></div></div></figure></div><div>
+<div class="two" style="grid-template-columns:72mm 1fr"><div><figure class="fig fig-center" style=""><div class="shotwrap" style="aspect-ratio:780/1300"><div class="shot"><img src="file:///D:/pet/manual-cms/shots/cms-mobile.jpg" alt="" style="width:100.000%;left:0.000%;top:0.000%"></div></div></figure></div><div>
 <p class="lead">휴대폰 인터넷에서도 주소 뒤에 <code>?edit=1</code> 을 붙이면 똑같이 [고치기]가 나와요.</p>
 <ol class="steps"><li><b class="num">1</b><div>검은 막대가 화면을 가리면 <b>[접기]</b>를 눌러요.</div></li><li><b class="num">2</b><div>사진은 휴대폰 앨범에서 바로 골라 올릴 수 있어요.</div></li><li><b class="num">3</b><div>상품 점은 손가락으로 눌러 찍고, 끌어서 옮겨요.</div></li></ol>
 <div class="warn"><b>⚠ 조심</b><div>휴대폰도 <b>카페24 관리자에 로그인</b>되어 있어야 저장할 수 있어요.</div></div></div></div>

diff --git a/adia902222_s2_260925195134_d_skin1_E/skin1/layout/basic/js/pet-cms.js b/adia902222_s2_260925195134_d_skin1_E/skin1/layout/basic/js/pet-cms.js
@@ -630,6 +630,7 @@
     + '.cms-order{position:absolute;z-index:62;top:10px;right:10px;display:flex;align-items:center;gap:4px;padding:4px;border-radius:999px;background:#1f1d1a;color:#fff;font:600 13px/1 Pretendard,system-ui,sans-serif;box-shadow:0 4px 14px rgba(0,0,0,.25)}'
     + '.cms-order span{padding:0 6px 0 8px}.cms-order button{width:36px;height:36px;border:0;border-radius:50%;background:rgba(255,255,255,.16);color:#fff;font:700 17px/1 system-ui,sans-serif;cursor:pointer}.cms-order button:disabled{opacity:.3;cursor:default}'
     + '.cms-bar .cms-order-save.is-dirty{background:#ff5a36;font-weight:700}'
+    + '.cms-bar__go{margin-top:8px;padding-top:8px;border-top:1px solid rgba(255,255,255,.15);font-size:13px;color:#e9e2dc}.cms-bar__go a{background:rgba(255,90,54,.28)!important}'
     + '.cms-order .cms-order__save{width:auto;padding:0 14px;border-radius:999px;background:#ff5a36;font:700 14px/1 Pretendard,system-ui,sans-serif}'
     + '.cms-order-float{position:fixed;z-index:10002;left:50%;top:110px;transform:translateX(-50%);display:flex;align-items:center;gap:12px;padding:10px 10px 10px 20px;border-radius:999px;background:#1f1d1a;color:#fff;font:700 15px/1.3 Pretendard,system-ui,sans-serif;box-shadow:0 10px 30px rgba(0,0,0,.35);white-space:nowrap}'
     + '.cms-order-float button{height:44px;padding:0 22px;border:0;border-radius:999px;background:#ff5a36;color:#fff;font:800 16px/1 Pretendard,system-ui,sans-serif;cursor:pointer;animation:cmsPulse 1.6s ease-in-out infinite}'
@@ -659,7 +660,18 @@
     var bar = document.createElement('div'); bar.className = 'cms-bar';
     bar.innerHTML = '<div><button type="button" class="cms-bar__min">접기</button><b>화면 편집 모드</b> · 바꾸고 싶은 영역의 주황 버튼을 누르면 편집 창이 열려요. 저장한 뒤 이 화면을 <b>새로고침</b>하면 바로 보여요.</div>'
       + '<div class="cms-bar__sub">화면에 바로 안 보이는 영역 <span class="cms-bar__hidden"></span></div><div class="cms-bar__warnbox"></div>'
-      + '<div><a href="/board/free/list.html?board_no=' + BOARD + '" target="_blank" rel="noopener">화면 관리 게시판 열기</a><a href="' + location.pathname + '">편집 모드 끄기</a></div>';
+      + '<div class="cms-bar__go">다른 페이지 고치기 <a href="/?edit=1">메인</a><a href="/product/list.html?cate_no=' + ((SC.sale || {}).categoryNo || 27) + '&edit=1">세일 페이지</a><a href="/product/list.html?cate_no=42&edit=1">상품 목록</a><a href="/board/product/list.html?board_no=4&edit=1">게시판</a><a href="/pet/guide.html?edit=1">가이드</a></div>'
+      + '<div><a href="/board/free/list.html?board_no=' + BOARD + '" target="_blank" rel="noopener">화면 관리 게시판 열기</a><a data-cms-exit href="' + esc(location.pathname + location.search.replace(/([?&])edit=1(&|$)/, function (m, a, b) { return b ? a : ''; }) + location.hash) + '">편집 모드 끄기</a></div>';
+    // 편집 모드에서 쇼핑몰 안 링크(메뉴 등)를 누르면 다음 페이지도 편집 모드로 연다
+    document.addEventListener('click', function (e) {
+      var a = e.target.closest && e.target.closest('a[href]'), h = a && a.getAttribute('href');
+      if (!a || a.hasAttribute('data-cms-exit') || a.target === '_blank' || !h || /^(#|javascript:|mailto:|tel:)/i.test(h)) return;
+      var u; try { u = new URL(h, location.href); } catch (er) { return; }
+      if (u.origin !== location.origin || /[?&]edit=1(&|$)/.test(u.search) || /\/(write|modify)\.html$/.test(u.pathname)) return;
+      if (u.pathname === location.pathname && u.search === location.search && u.hash) return; // 같은 페이지 안 이동
+      u.searchParams.set('edit', '1');
+      a.setAttribute('href', u.pathname + u.search + u.hash);
+    }, true);
     // 페이지마다 게시판 글로 못 바꾸는 부분은 어디서 바꾸는지 알려 준다
     var tip = /^\/board\//.test(location.pathname)
       ? '💡 게시판 위 이동 탭(공지사항·자주묻는질문·상품문의)의 이름·순서는 <b>store-content.js 의 community.items</b>에서, 게시판 글은 <b>관리자 › 게시판 › 게시물 관리</b>에서 바꿔요.'
@@ -815,7 +827,7 @@
   }
   function loadEditor() {
     var s = document.createElement('script');
-    s.src = '/layout/basic/js/pet-cms-editor.js?v=' + (CFG.editorVersion || '20260929a');
+    s.src = '/layout/basic/js/pet-cms-editor.js?v=' + (CFG.editorVersion || '20260929b');
     document.body.appendChild(s);
   }
 

diff --git a/adia902222_s2_260925195134_d_skin1_E/skin1/layout/basic/layout.html b/adia902222_s2_260925195134_d_skin1_E/skin1/layout/basic/layout.html
@@ -67,7 +67,7 @@
 	     예전 내용이 계속 보이면, 숫자를 하나 올려서 저장한다(예: v=20260923 → v=20260924). -->
 	<script src="/layout/basic/js/store-content.js?v=20260928c"></script>
 	<!-- 게시판 화면 관리 : 메인의 사진·글자를 게시판 글로 바꾼다 (설정 = store-content.js 의 cms) -->
-	<script src="/layout/basic/js/pet-cms.js?v=20260929a"></script>
+	<script src="/layout/basic/js/pet-cms.js?v=20260929b"></script>
 
 	<!-- DO NOT EDIT - DESIGN SYSTEM : 메인 인트로(SERAPHIN ✕ Be yourself)
 	     스타일을 반드시 <head> 에 둔다. seraphin.css 는 본문 맨 끝에서 불러오므로, 거기에 두면 인트로가
